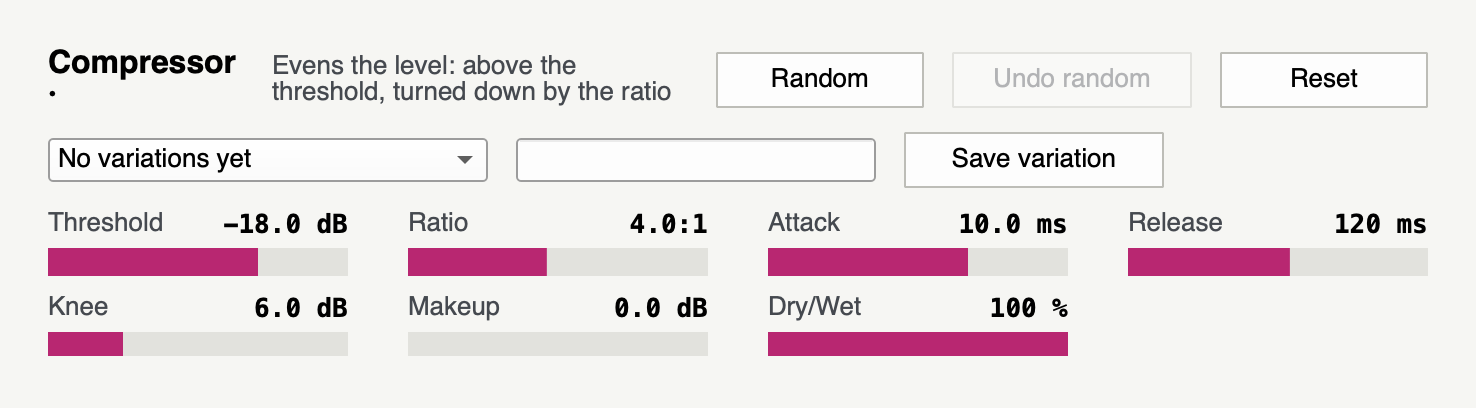
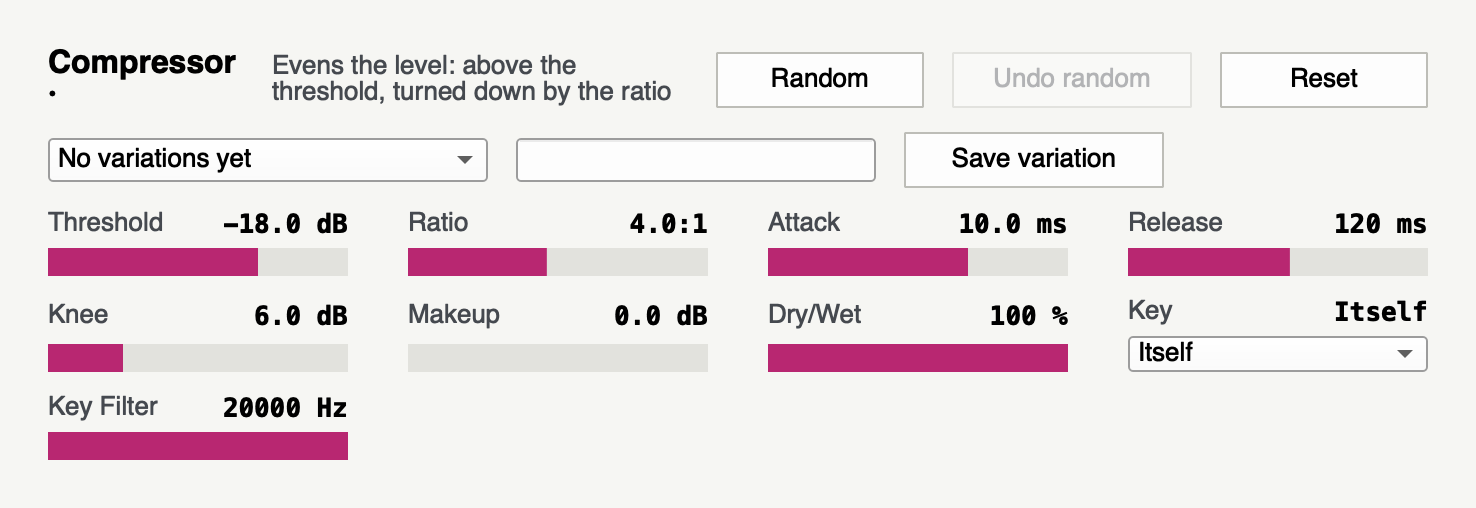
Compressor: side chain, keyed by another chain
Key picks what turns the Compressor down: itself, as before, or the
instrument, bass, loop, drums or synth chain, heard after its effects
and before its fader. Key Filter cuts the key above it, so only the
kick's lows move it. Random leaves the Key where it is.

Each chain hands a keyed device the five chains' busses as its synth
starts; the key is read with InFeedback, so a chain run later in the
block arrives one block late.

Also: a chain built after the loop's phase was given (the loop's)
sent its group the phase before its devices existed, so a Slicer or
Tremolo there did not follow the loop's beat. It is sent after them now.

diff --git a/docs/effects.md b/docs/effects.md
@@ -307,6 +307,27 @@ scale the output bends rather than runs on, should the makeup push it there.
 Before Drive or a delay it evens what they hear; on the loop it holds a
 take that came out uneven.
 
+**Side chain.** **Key** says what turns it down: itself, as it starts, or
+another chain. Keyed by another chain, it listens to that chain and turns its
+own down:
+
+- **On the loop, keyed by the Instrument**, the loop makes room while you play
+  over it and comes back when you stop.
+- **On the bass, the synth or the loop, keyed by the Drums**, it pumps on the
+  kick. Turn **Key Filter** down to about 100 Hz, so only the kick's lows move
+  it, not the hi-hats.
+
+The key is the other chain after its effects and before its fader. Muting
+that chain's strip leaves the key as it was, so the pumping goes on;
+stopping what plays there stops it. The drums are heard before their reverb, so its tail doesn't hold the
+compressor down. A chain later in the line (instrument, bass, loop, drums,
+synth) is heard 64 samples late, 1.3 ms at 48 kHz, well inside an attack. Its
+own chain's name in the menu is the same as **Itself**.
+
+The looper records the instrument chain after its effects, so a keyed
+Compressor there is recorded into the loop, pumping and all. For pumping you
+hear but don't loop, put it on the loop, the bass or the synth.
+
 | Setting | Range | Default | What it does |
 |---|---|---|---|
 | **Threshold** | −60 to 0 dB | −18 dB | Above it the level is turned down |
@@ -316,6 +337,8 @@ take that came out uneven.
 | **Knee** | 0 to 24 dB | 6 dB | How gently it starts around the threshold; 0 is a hard corner |
 | **Makeup** | 0 to 24 dB | 0 dB | Gain back after it |
 | **Dry/Wet** | 0 to 100 % | 100 % | The signal as it came against the compressed one. Lower is parallel compression |
+| **Key** | Itself, Instrument, Bass, Loop, Drums, Synth | Itself | What turns it down. Random leaves it where it is |
+| **Key Filter** | 40 Hz to 20 kHz | 20 kHz (out) | Cuts the key above it, 24 dB an octave, so only its lows turn it down |
 
 ## Noise Gate
 
